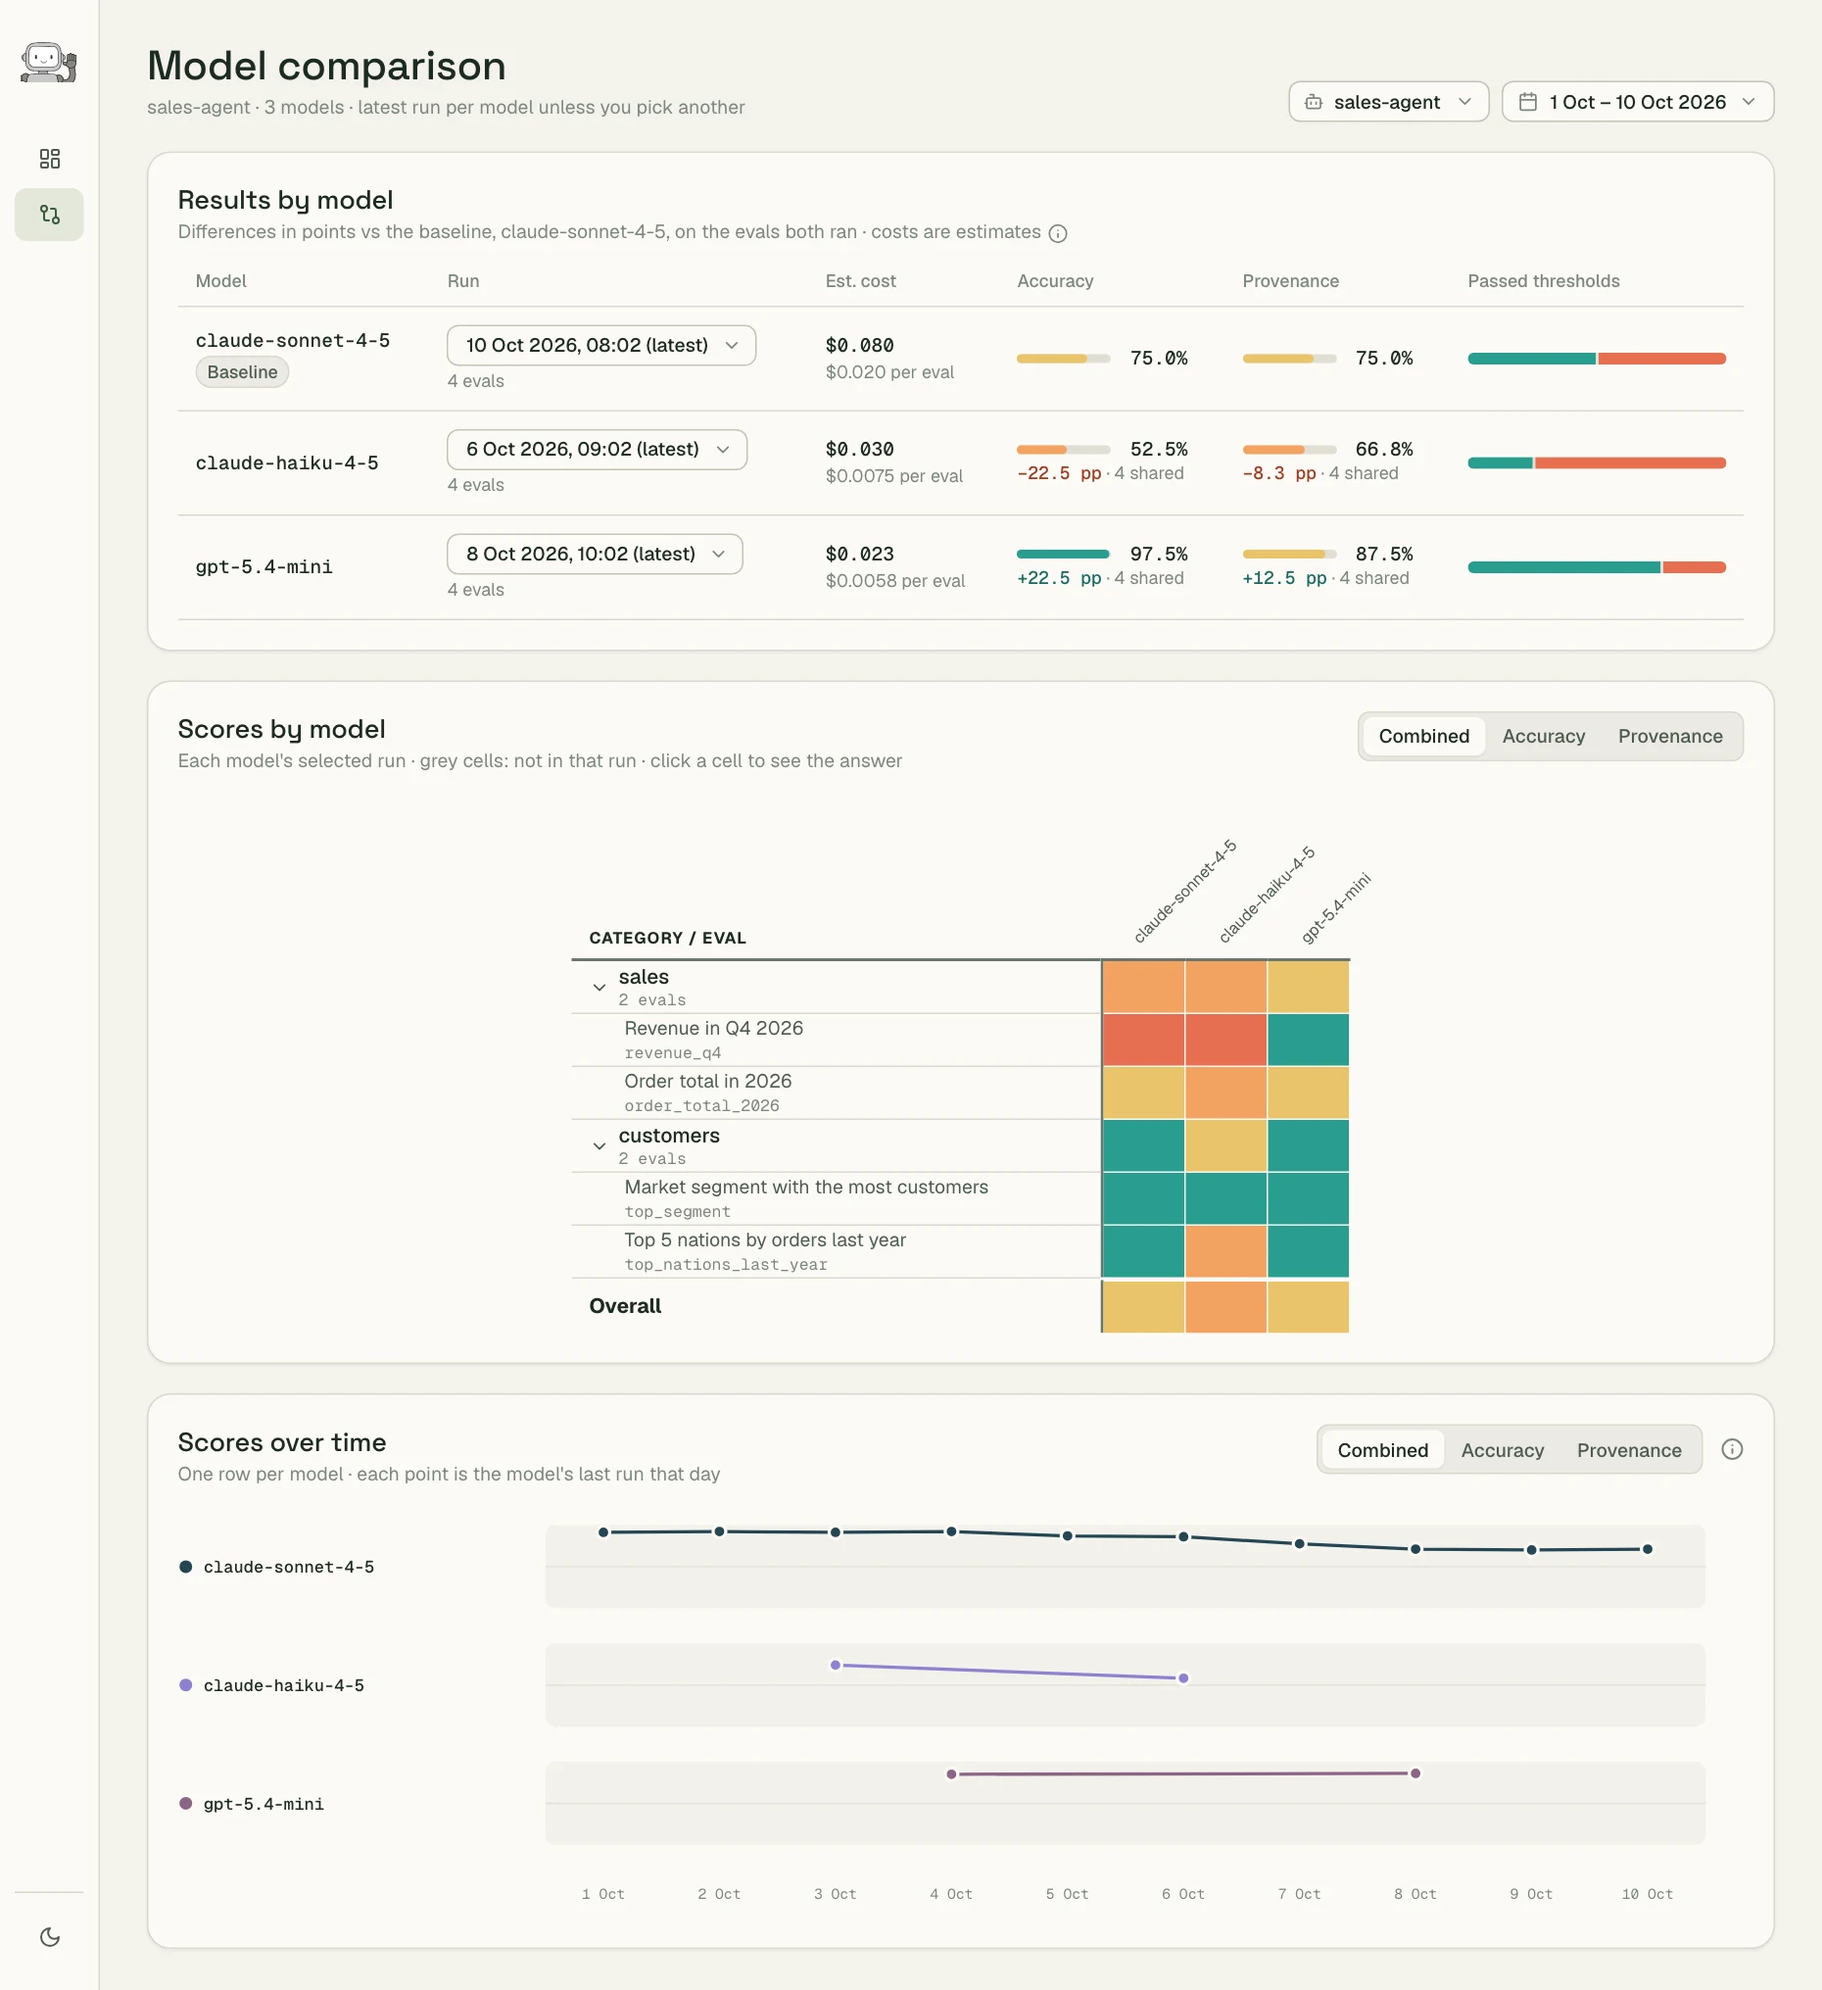
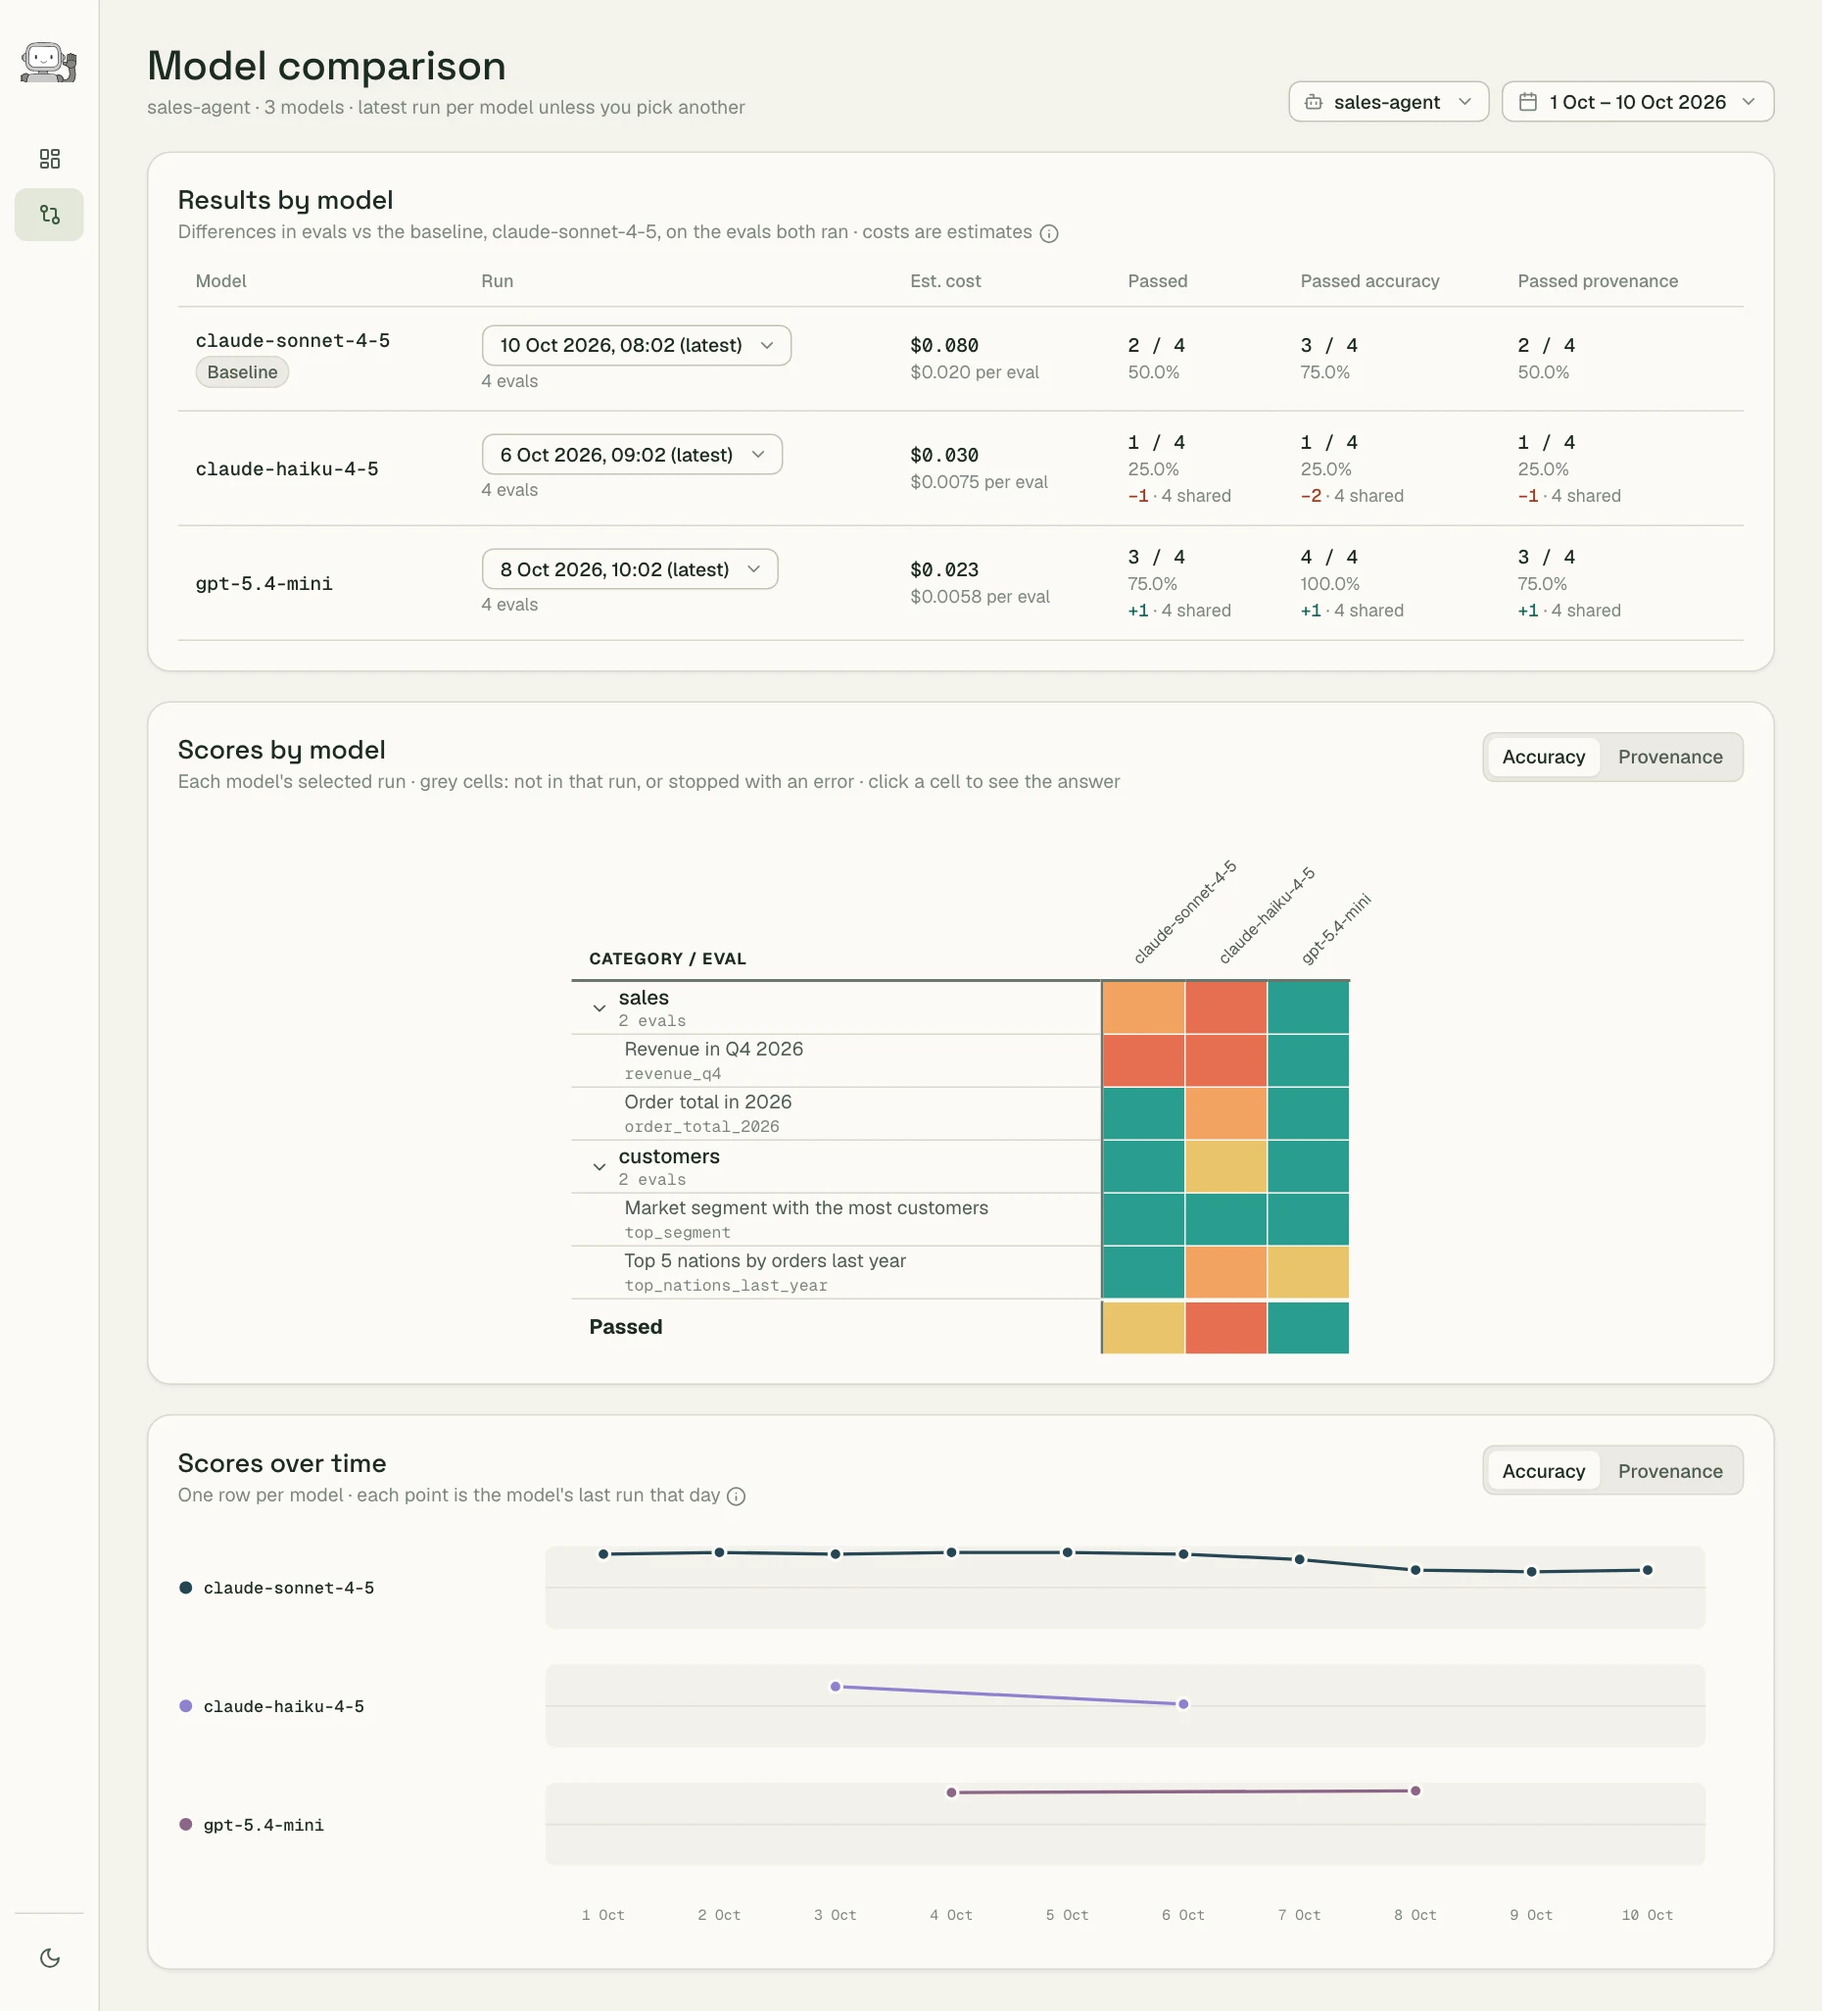
Landing page: pass counts instead of Combined
The report dropped the Combined score in #94; the landing page still showed it.

- Loop's report mock: Passed / Passed accuracy / Passed provenance / Est. cost
  cards, Accuracy and Provenance tabs, a Passed row, and the real report's
  colours and tooltips for the same runs (sample data, 7-10 Oct).
- Review and Improve screenshots regenerated from the current report UI.
- shots.py finds the Improve tooltip by its Accuracy line; place.py matches
  the current markup, keeps the base images' alt text, and moves a tooltip
  wider than the room right of its cell back inside the frame.

diff --git a/site/scripts/report-screenshots/place.py b/site/scripts/report-screenshots/place.py
@@ -9,6 +9,17 @@ SEC = HERE.parents[1] / "src/components/sections"
 m = json.load(open(HERE / "out/meta.json"))
 pct = lambda v, t: f"{v / t * 100:.3f}%"
 
+# The base images' alt text: the markup is rewritten from here, so this is where it lives.
+OVERVIEW_ALT = (
+    "honest-agent report overview: how many evals passed, passed accuracy and passed provenance for an"
+    " analytics agent, a heatmap of scores per eval across ten daily runs, and the evals below their threshold"
+)
+COMPARE_ALT = (
+    "honest-agent model comparison: claude-sonnet-4-5, claude-haiku-4-5 and gpt-5.4-mini run on the same evals,"
+    " with how many evals each model passed and scores over time"
+)
+IMPROVE_ALT = "Heatmap of eval scores by day: a failing eval turns green again after the agent is fixed"
+
 
 def rect(x, y, w, h, W, H):
     return f"left:{pct(x, W)};top:{pct(y, H)};width:{pct(w, W)};height:{pct(h, H)}"
@@ -21,7 +32,9 @@ def boxr(b, W, H):
 # ---------- Review ----------
 W, H = m["overview"]["size"]
 hv = {h["eval"]: h for h in m["overview"]["hovers"]}
-ov = [f'<div class="pg" style="aspect-ratio:{W}/{H}"><img class="base" src="/assets/review-overview.webp" alt="">']
+ov = [
+    f'<div class="pg" style="aspect-ratio:{W}/{H}"><img class="base" src="/assets/review-overview.webp" alt="{OVERVIEW_ALT}">'
+]
 for i, e in enumerate(["revenue_q4", "order_total_2026", "top_segment", "top_nations_last_year"]):
     cell = rect(*hv[e]["cell"], W, H)
     ov.append(
@@ -38,7 +51,9 @@ ov.append(
 ov = "".join(ov)
 
 W, H = m["compare"]["size"]
-cmp = [f'<div class="pg" style="aspect-ratio:{W}/{H}"><img class="base" src="/assets/review-compare.webp" alt="">']
+cmp = [
+    f'<div class="pg" style="aspect-ratio:{W}/{H}"><img class="base" src="/assets/review-compare.webp" alt="{COMPARE_ALT}">'
+]
 for h in m["compare"]["hovers"]:
     cell = rect(*h["cell"], W, H)
     cmp.append(
@@ -51,24 +66,29 @@ for h in m["compare"]["hovers"]:
 p = SEC / "Review.astro"
 s = p.read_text()
 s, n1 = re.subn(
-    r'<div class="pg" style="aspect-ratio:1240/1064">.*?</div>(?=</div><div class="view w2">)', ov, s, flags=re.S
+    r'<div class="pg" style="aspect-ratio:1240/\d+"><img class="base" src="/assets/review-overview.webp".*?</div>(?=</div><div class="view w2">)',
+    ov,
+    s,
+    flags=re.S,
 )
 s, n2 = re.subn(
-    r'<div class="pg" style="aspect-ratio:1240/1354"><img class="base" src="/assets/review-compare.webp" alt="">.*?(?=<label class="hs go nav" for="rv-v1")',
+    r'<div class="pg" style="aspect-ratio:1240/\d+"><img class="base" src="/assets/review-compare.webp".*?(?=<label class="hs go nav" for="rv-v1")',
     "".join(cmp),
     s,
     flags=re.S,
 )
 assert (n1, n2) == (1, 1), (n1, n2)
-assert m["compare"]["size"] == [1240, 1354] and m["result"]["size"] == [1240, 1750]
+assert m["result"]["size"] == [1240, 2015], "the result page changed height: update its aspect-ratio in Review.astro"
 p.write_text(s)
 
 # ---------- Improve ----------
 cx, cy, cw, ch = m["improve"]["card"]
 rel = lambda b: rect(b[0] - cx, b[1] - cy, b[2], b[3], cw, ch)
 relbox = lambda b: rect(b[0] - cx, b[1] - cy, b[2] - b[0], b[3] - b[1], cw, ch)
+# A tooltip wider than the room right of its cell is moved in, as the report does at the screen's edge.
+inside = lambda b: (b[0] - max(0, b[2] - (cx + cw)), b[1], b[2] - max(0, b[2] - (cx + cw)), b[3])
 parts = [
-    f'<div class="pg" style="aspect-ratio:{cw:.2f}/{ch:.2f}"><img class="base" src="/assets/improve-heat2.webp" alt="">'
+    f'<div class="pg" style="aspect-ratio:{cw:.2f}/{ch:.2f}"><img class="base" src="/assets/improve-heat2.webp" alt="{IMPROVE_ALT}">'
 ]
 for i, cell in enumerate(m["improve"]["cells"]):  # the 11 Oct cells start in the previous run's colour
     parts.append(
@@ -77,17 +97,20 @@ for i, cell in enumerate(m["improve"]["cells"]):  # the 11 Oct cells start in th
 hov = {h["label"]: h for h in m["improve"]["hov"]}
 for e in ["revenue_q4", "order_total_2026", "top_segment", "top_nations_last_year"]:
     parts.append(f'<span class="hs" style="{rel(hov[e]["cell"])}"></span>')
-    parts.append(f'<img class="hv" src="/assets/improve-hov_{e}.webp" style="{relbox(hov[e]["box"])}" alt="">')
+    parts.append(f'<img class="hv" src="/assets/improve-hov_{e}.webp" style="{relbox(inside(hov[e]["box"]))}" alt="">')
 last = 0.90 + 0.28 * len(m["improve"]["cells"]) + 0.30
 parts.append(f'<span class="ring" style="{rel(hov["revenue_q4"]["cell"])};--d:{last:.2f}s"></span>')
 parts.append(
-    f'<img class="auto" src="/assets/improve-hov_revenue_q4.webp" style="{relbox(hov["revenue_q4"]["box"])};--d:{last:.2f}s" alt=""></div>'
+    f'<img class="auto" src="/assets/improve-hov_revenue_q4.webp" style="{relbox(inside(hov["revenue_q4"]["box"]))};--d:{last:.2f}s" alt=""></div>'
 )
 
 p = SEC / "Improve.astro"
 s = p.read_text()
 s, n = re.subn(
-    r'<div class="pg" style="aspect-ratio:873\.3333333333334/343\.333">.*?alt=""></div>', "".join(parts), s, flags=re.S
+    r'<div class="pg" style="aspect-ratio:[\d.]+/[\d.]+"><img class="base" src="/assets/improve-heat2.webp".*?alt=""></div>',
+    "".join(parts),
+    s,
+    flags=re.S,
 )
 assert n == 1, n
 p.write_text(s)

diff --git a/site/scripts/report-screenshots/shots.py b/site/scripts/report-screenshots/shots.py
@@ -125,7 +125,7 @@ def improve(c, W=1240):
             pg.wait_for_timeout(350)
             pg.screenshot(path=D + "t.png")
             tb = pg.evaluate(
-                """()=>{const els=[...document.querySelectorAll('div')].filter(d=>{const t=d.innerText||'';return t.includes('2026-10-11')&&t.includes('Combined')&&getComputedStyle(d).position==='fixed'});const e=els[0];const r=e.getBoundingClientRect();return [r.x,r.y,r.width,r.height]}"""
+                """()=>{const els=[...document.querySelectorAll('div')].filter(d=>{const t=d.innerText||'';return t.includes('2026-10-11')&&t.includes('Accuracy')&&getComputedStyle(d).position==='fixed'});const e=els[0];const r=e.getBoundingClientRect();return [r.x,r.y,r.width,r.height]}"""
             )
             bx = (tb[0] - 2, tb[1] - 2, tb[0] + tb[2] + 2, tb[1] + tb[3] + 2)
             Image.open(D + "t.png").convert("RGB").crop(tuple(int(v * S) for v in bx)).save(
